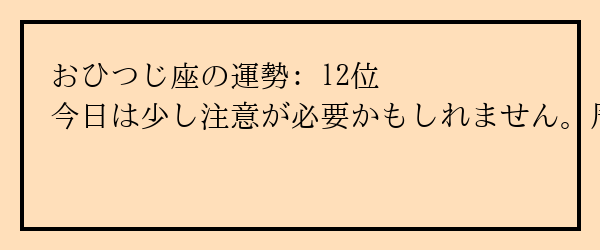
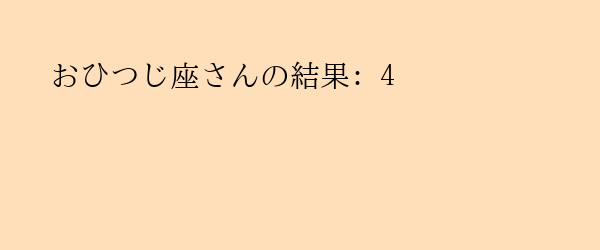
change to various

Changed region(s): [[0.03, 0.056, 1.0, 0.924], [0.33, 0.252, 0.66, 0.364]]

diff --git a/example/omikuji.py b/example/omikuji.py
@@ -1,28 +1,45 @@
 import requests
 
-def get_omikuji_result(name: str):
-    # FastAPIサーバーのURL（適切に変更）
-    base_url = "https://fate-box-api.onrender.com"
-    
-    # おみくじ結果を取得するAPIエンドポイントにリクエスト
-    response = requests.get(f"{base_url}/omikuji/{name}")
-    
-    if response.status_code == 200:
-        # レスポンスが成功した場合、結果を取得
-        data = response.json()
-        print(f"名前 : {data['name']}さん" + "\n" +  f"結果 : {data['divination']}")
-        print("画像URL:", data['image_url'])
-        
-        # 画像URLから画像を取得する
-        image_response = requests.get(f"{base_url}{data['image_url']}")
-        if image_response.status_code == 200:
-            # 画像を保存する
-            with open(f"{data['name']}_omikuji_result.png", 'wb') as f:
-                f.write(image_response.content)
-            print("画像が保存されました。")
-        else:
-            print("画像の取得に失敗しました。")
-    else:
-        print("運勢の取得に失敗しました。", response.status_code, response.text)
+# FastAPIサーバーのベースURL
+BASE_URL = "https://fate-box-api.onrender.com"
 
-get_omikuji_result("太郎")
+def fetch_omikuji(name: str):
+    """おみくじAPIから結果を取得する"""
+    try:
+        response = requests.get(f"{BASE_URL}/omikuji/{name}")
+        response.raise_for_status()  # エラーがある場合は例外を発生
+        data = response.json()
+        print(f"名前: {data['name']}")
+        print(f"おみくじ結果: {data['divination']}")
+        print(f"画像URL: {data['image_url']}")
+        return data
+    except requests.exceptions.RequestException as e:
+        print(f"おみくじAPIの取得に失敗しました: {e}")
+        return None
+
+def fetch_image(image_url: str, save_path: str):
+    """画像を取得して保存する"""
+    try:
+        response = requests.get(image_url, stream=True)
+        response.raise_for_status()
+        with open(save_path, 'wb') as f:
+            for chunk in response.iter_content(chunk_size=8192):
+                f.write(chunk)
+        print(f"画像を保存しました: {save_path}")
+    except requests.exceptions.RequestException as e:
+        print(f"画像の取得に失敗しました: {e}")
+
+def main():
+    # ユーザー名を入力
+    name = input("名前を入力してください: ")
+
+    # おみくじ結果を取得
+    result = fetch_omikuji(name)
+    if result:
+        image_url = result['image_url']
+        save_path = f"{name}_result.png"  # 保存先のファイル名
+        # 画像を取得して保存
+        fetch_image(image_url, save_path)
+
+if __name__ == "__main__":
+    main()
